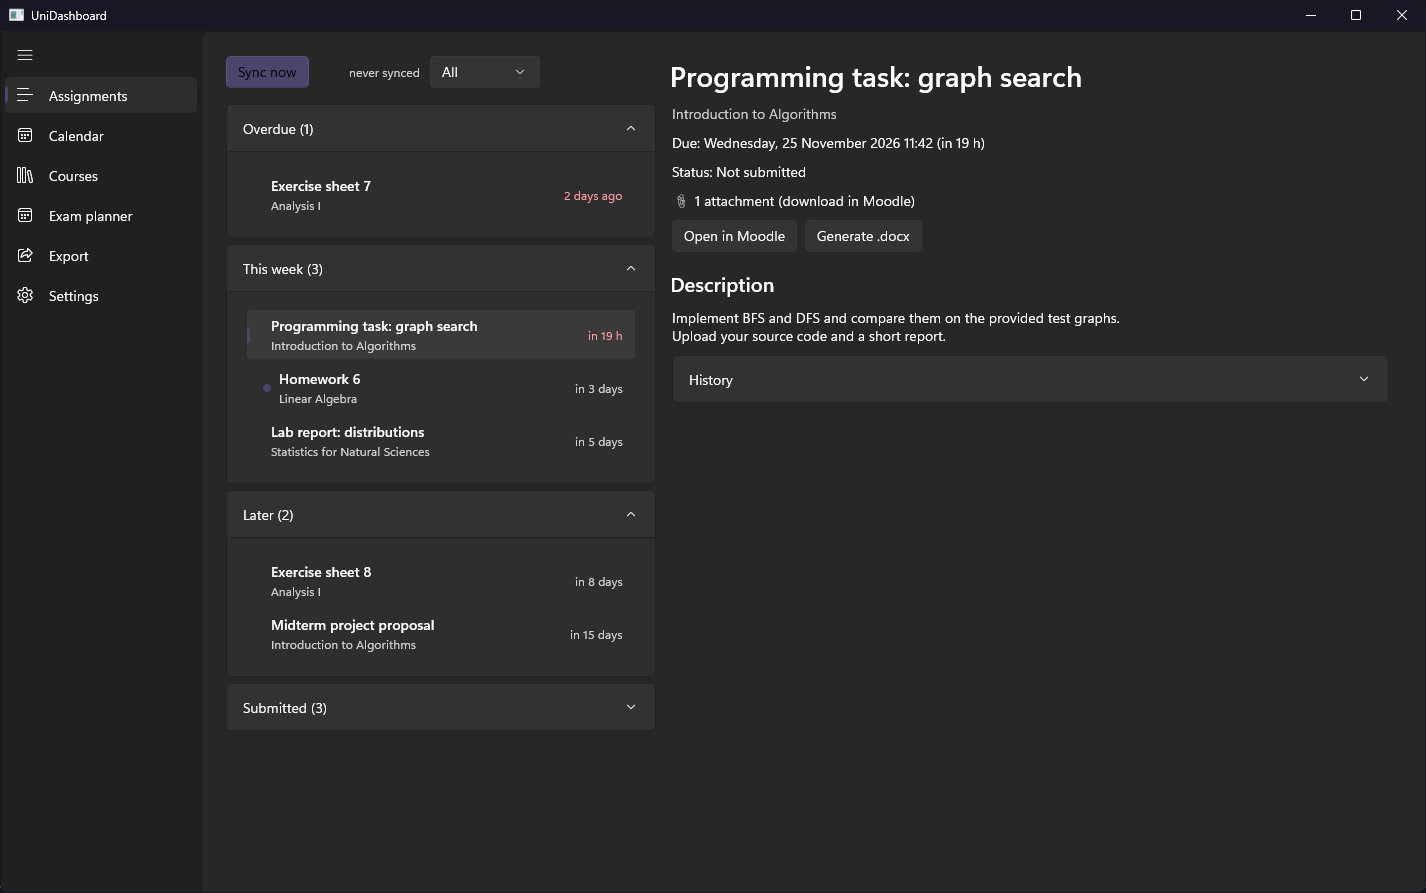
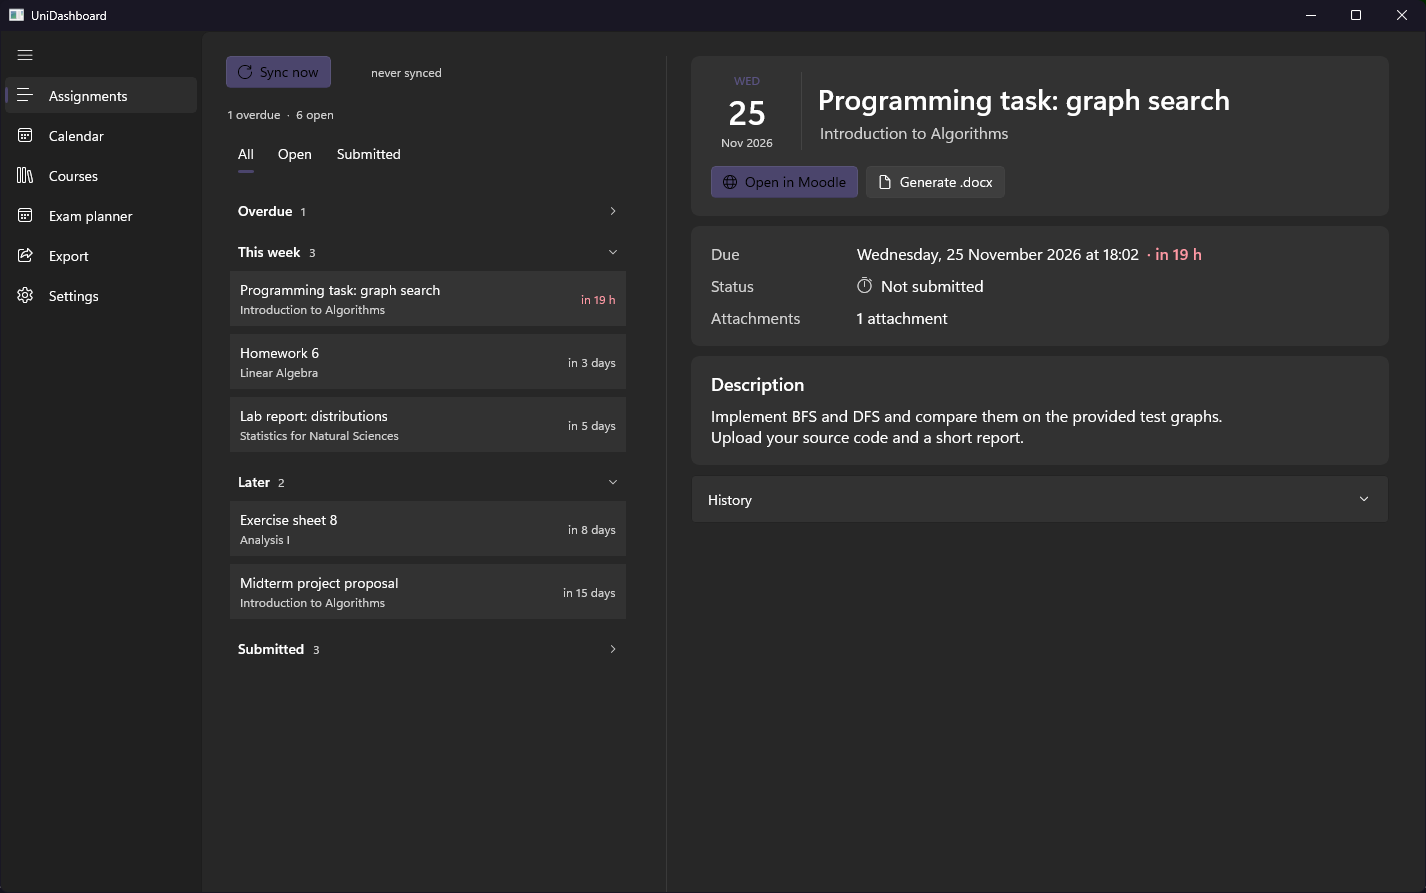
Refresh Assignments screenshots and docs
Detail dates are now English (en-GB) and no longer repeat "Due" in the facts
table. Screenshot script: retry until the window has its full size (the first
grab could catch it mid-startup), and open an assignment in the overview shot.

diff --git a/UniDashboard.App/AssignmentsPage.xaml.cs b/UniDashboard.App/AssignmentsPage.xaml.cs
@@ -30,7 +30,7 @@ public class AssignmentRow
 public sealed partial class AssignmentsPage : Page
 {
     static App A => App.Current;
-    static readonly System.Globalization.CultureInfo De = System.Globalization.CultureInfo.GetCultureInfo("de-AT");
+    static readonly System.Globalization.CultureInfo En = System.Globalization.CultureInfo.GetCultureInfo("en-GB");
     readonly List<ListView> _lists = [];
     Assignment? _current;
     long? _showOnLoad;
@@ -231,10 +231,10 @@ public sealed partial class AssignmentsPage : Page
         if (a.DueAt is { } d)
         {
             var local = d.ToLocalTime();
-            DateDow.Text = local.ToString("ddd", De).TrimEnd('.').ToUpperInvariant();
+            DateDow.Text = local.ToString("ddd", En).TrimEnd('.').ToUpperInvariant();
             DateDay.Text = local.Day.ToString();
-            DateMonth.Text = local.ToString("MMM yyyy", De);
-            DetailDue.Text = $"Due {local.ToString("dddd, d MMMM yyyy", De)} at {local:HH:mm}";
+            DateMonth.Text = local.ToString("MMM yyyy", En);
+            DetailDue.Text = $"{local.ToString("dddd, d MMMM yyyy", En)} at {local:HH:mm}";
             DueRelative.Text = "· " + RelativeDue(d, now);
             DueRelative.Foreground = DueBrush(a, now);
         }

diff --git a/docs/features.md b/docs/features.md
@@ -4,7 +4,7 @@
 
 ![Assignments](screenshots/assignments.png)
 
-- **Grouped list**: Overdue (only if not submitted), Today, This week, Later, and a collapsed Submitted group. Filter by all / open / submitted.
+- **Grouped list**: Overdue (only if not submitted), Today, This week, Later, and Submitted. Overdue and Submitted start collapsed (Submitted is open on the *Submitted* tab). Filter by all / open / submitted with the tabs above the list; a one-line summary shows how many are overdue or due today.
 - Each row shows the title, the course, a relative due time that turns red as the deadline approaches, and a dot when something changed since you last looked.
 - **Detail pane**: absolute and relative due date, submission status, grade, the description, attachment count (files are downloaded in Moodle, not here), **Open in Moodle** and **Generate .docx**.
 - Opening an assignment clears its "changed" dot.
